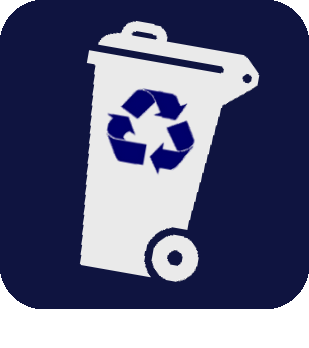
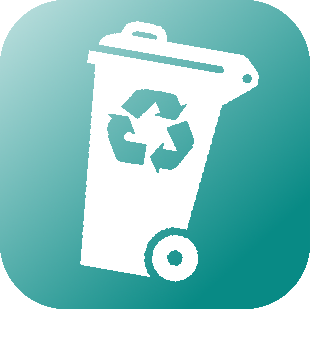
update img

diff --git a/desktop/css/mybin.css b/desktop/css/mybin.css
@@ -1,3 +1,7 @@
+:root {
+    --main-color: rgb(8, 138, 133);
+}
+
 #customBin {
     background: no-repeat url("../../data/images/icon_bkg.png") !important;
     background-size: 60% !important;
@@ -12,7 +16,7 @@
     max-width: 67px !important;
     overflow: hidden;
     vertical-align: baseline;
-    padding-top: 0px !important;
+    padding-top: 2px !important;
     margin-bottom: 18px !important;
 }
 

diff --git a/desktop/php/mybin.php b/desktop/php/mybin.php
@@ -23,17 +23,17 @@ foreach ($eqLogics as $eqLogic) {
 			<div class="col-sm-10">
 				<legend><i class="fas fa-cog"></i> {{Gestion}}</legend>
 				<div class="eqLogicThumbnailContainer">
-					<div class="cursor eqLogicAction logoPrimary" data-action="add">
+					<div class="cursor eqLogicAction logoPrimary" data-action="add" style="color:var(--main-color);">
 						<i class="fas fa-plus-circle"></i>
 						<br>
 						<span>{{Ajouter}}</span>
 					</div>
-					<div class="cursor eqLogicAction logoSecondary" data-action="gotoPluginConf">
+					<div class="cursor eqLogicAction logoSecondary" data-action="gotoPluginConf" style="color:var(--main-color);">
 						<i class="fas fa-wrench"></i>
 						<br>
 						<span>{{Configuration}}</span>
 					</div>
-					<div class="cursor eqLogicAction logoSecondary" id="bt_configImages">
+					<div class="cursor eqLogicAction logoSecondary" id="bt_configImages" style="color:var(--main-color);">
 						<i class="fas fa-images"></i>
 						<br>
 						<span>{{Personnalisation}}</span>
@@ -50,7 +50,7 @@ foreach ($eqLogics as $eqLogic) {
 				<div class="col-sm-2">
 					<legend><i class=" fas fa-comments"></i> {{Community}}</legend>
 					<div class="eqLogicThumbnailContainer">
-						<div class="cursor eqLogicAction logoSecondary" data-action="createCommunityPost" style="color:rgb(27,161,242);">
+						<div class="cursor eqLogicAction logoSecondary" data-action="createCommunityPost" style="color:var(--main-color);">
 							<i class="fas fa-ambulance"></i>
 							<br>
 							<span style="color:var(--txt-color)">{{Créer un post Community}}</span>
